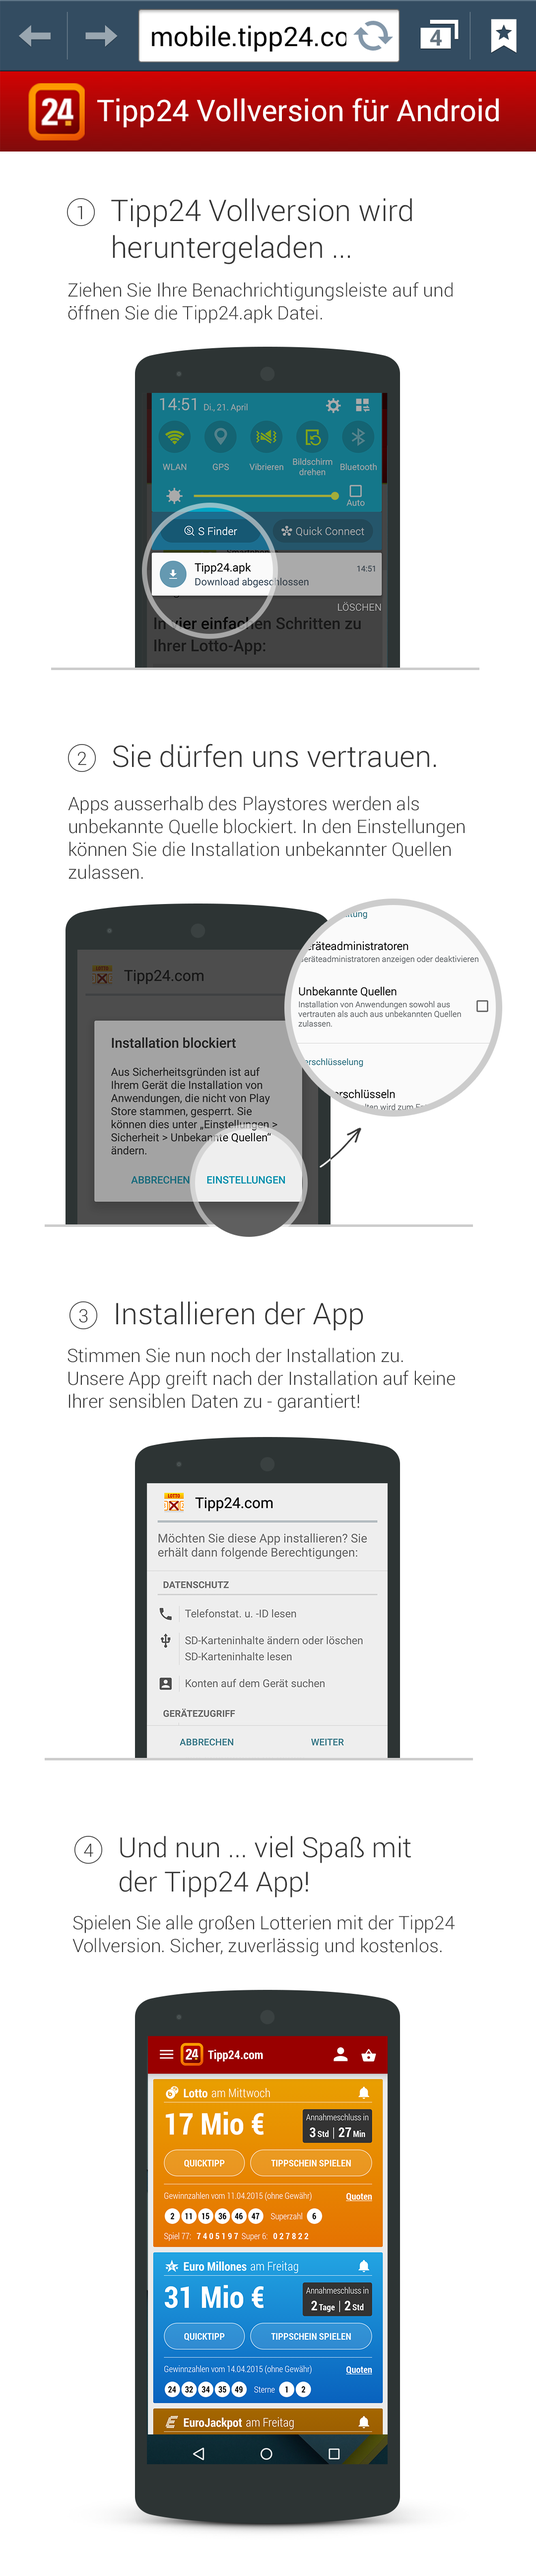
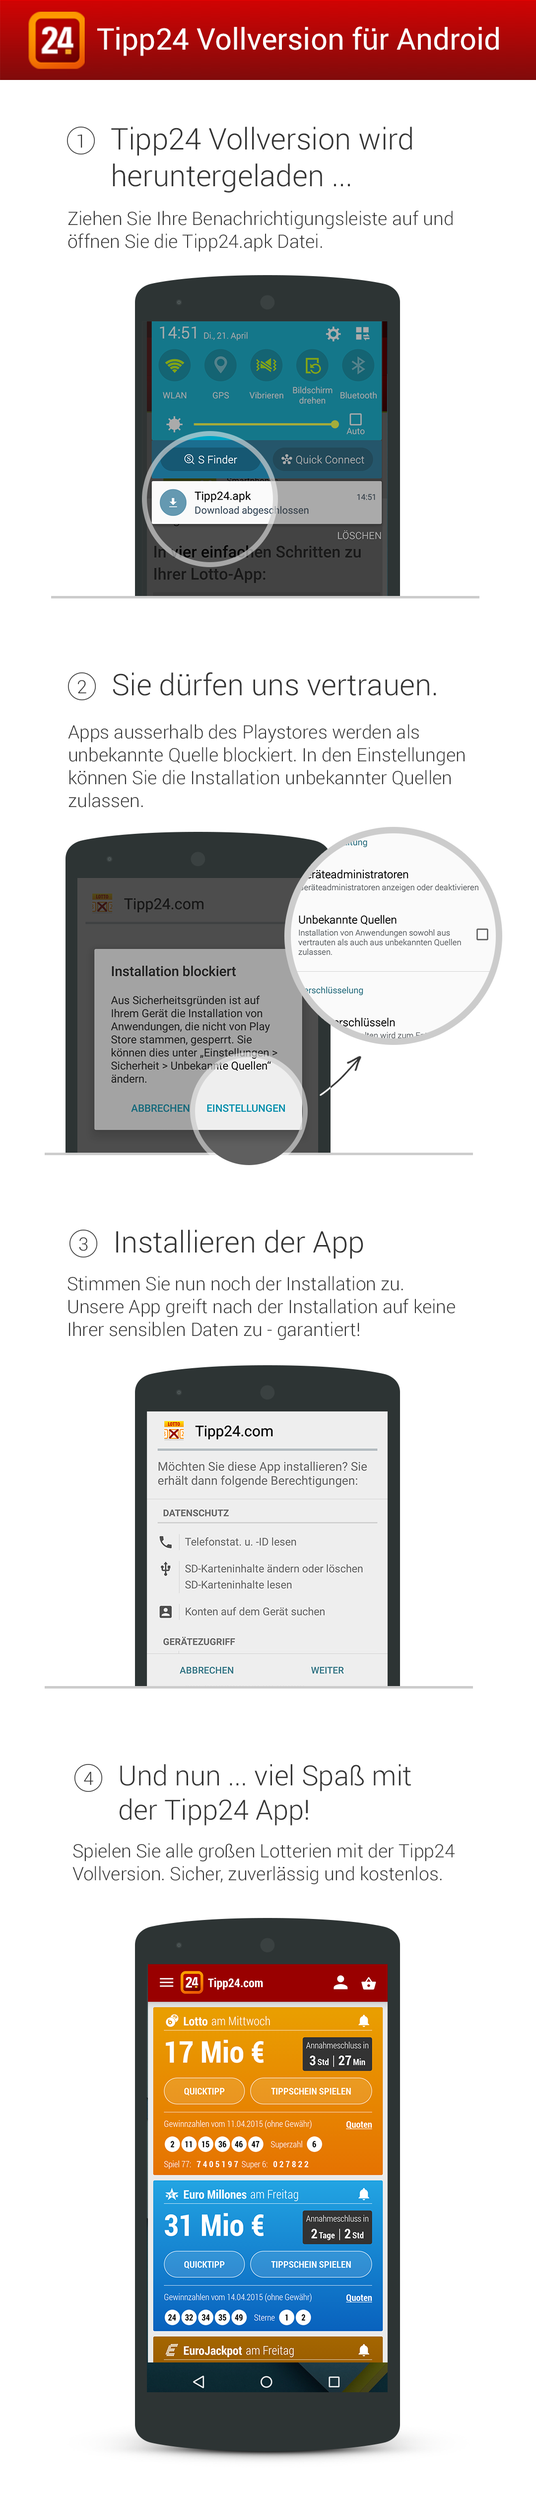
Remove android status bar from prototype image

Changed region(s): [[0.0, 0.0, 1.0, 0.9653], [0.2444, 0.6539, 0.275, 0.685]]

diff --git a/website/css/landingPage.css b/website/css/landingPage.css
@@ -1,4 +1,6 @@
-
+body {
+    margin: 0;
+}
 
 img {
   width: 100%; 
